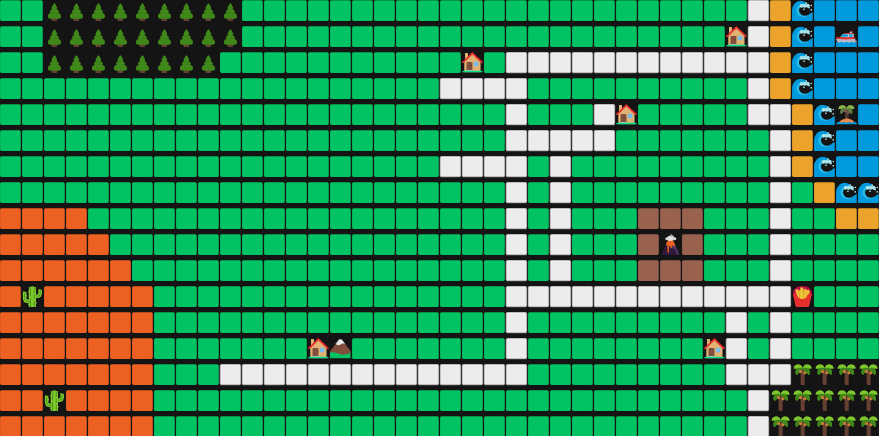
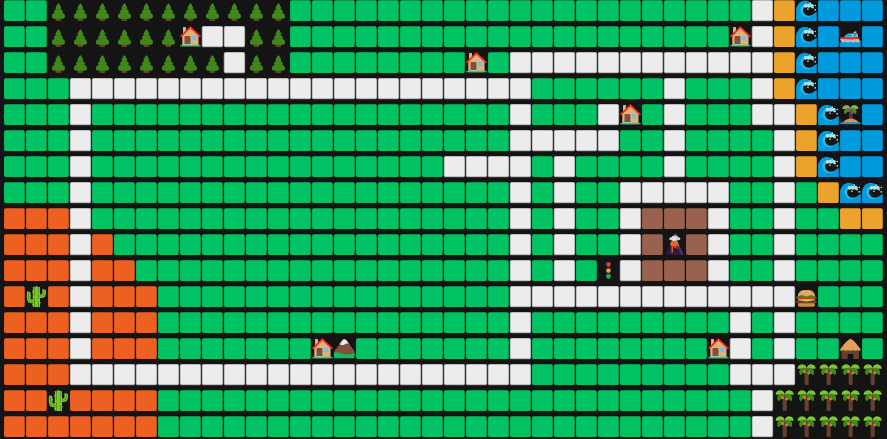
tentando plotar e concertando caminhos

diff --git a/desenhandomapa.py b/desenhandomapa.py
@@ -2,19 +2,19 @@ from heapq import heappop, heappush
 import numpy as np
 mapa = np.array([
     ["🟩","🟩","🌲","🌲","🌲","🌲","🌲","🌲","🌲","🌲","🌲","🌲","🌲","🟩","🟩","🟩","🟩","🟩","🟩","🟩","🟩","🟩","🟩","🟩","🟩","🟩","🟩","🟩","🟩","🟩","🟩","🟩","🟩","🟩","⬜","🟨","🌊","🟦","🟦","🟦"],
-    ["🟩","🟩","🌲","🌲","🌲","🌲","🌲","🌲","C7","⬜","⬜","🌲","🌲","🟩","🟩","🟩","🟩","🟩","🟩","🟩","🟩","🟩","🟩","🟩","🟩","🟩","🟩","🟩","🟩","🟩","🟩","🟩","🟩","C2","⬜","🟨","🌊","🟦","🛥 ","🟦"],
-    ["🟩","🟩","🌲","🌲","🌲","🌲","🌲","🌲","🌲","🌲","⬜","🌲","🌲","🟩","🟩","🟩","🟩","🟩","🟩","🟩","🟩","C1","🟩","⬜","⬜","⬜","⬜","⬜","⬜","⬜","⬜","⬜","⬜","⬜","⬜","🟨","🌊","🟦","🟦","🟦"],
+    ["🟩","🟩","🌲","🌲","🌲","🌲","🌲","🌲","🏠","⬜","⬜","🌲","🌲","🟩","🟩","🟩","🟩","🟩","🟩","🟩","🟩","🟩","🟩","🟩","🟩","🟩","🟩","🟩","🟩","🟩","🟩","🟩","🟩","🏠","⬜","🟨","🌊","🟦","🛥 ","🟦"],
+    ["🟩","🟩","🌲","🌲","🌲","🌲","🌲","🌲","🌲","🌲","⬜","🌲","🌲","🟩","🟩","🟩","🟩","🟩","🟩","🟩","🟩","🏠","🟩","⬜","⬜","⬜","⬜","⬜","⬜","⬜","⬜","⬜","⬜","⬜","⬜","🟨","🌊","🟦","🟦","🟦"],
     ["🟩","🟩","🟩","⬜","⬜","⬜","⬜","⬜","⬜","⬜","⬜","⬜","⬜","⬜","⬜","⬜","⬜","⬜","⬜","⬜","⬜","⬜","⬜","⬜","🟩","🟩","🟩","🟩","🟩","🟩","⬜","🟩","🟩","🟩","⬜","🟨","🌊","🟦","🟦","🟦"],
-    ["🟩","🟩","🟩","⬜","🟩","🟩","🟩","🟩","🟩","🟩","🟩","🟩","🟩","🟩","🟩","🟩","🟩","🟩","🟩","🟩","🟩","🟩","🟩","⬜","🟩","🟩","🟩","⬜","C3","🟩","⬜","🟩","🟩","🟩","⬜","⬜","🟨","🌊","🏝 ","🟦"],
+    ["🟩","🟩","🟩","⬜","🟩","🟩","🟩","🟩","🟩","🟩","🟩","🟩","🟩","🟩","🟩","🟩","🟩","🟩","🟩","🟩","🟩","🟩","🟩","⬜","🟩","🟩","🟩","⬜","🏠","🟩","⬜","🟩","🟩","🟩","⬜","⬜","🟨","🌊","🏝 ","🟦"],
     ["🟩","🟩","🟩","⬜","🟩","🟩","🟩","🟩","🟩","🟩","🟩","🟩","🟩","🟩","🟩","🟩","🟩","🟩","🟩","🟩","🟩","🟩","🟩","⬜","⬜","⬜","⬜","⬜","🟩","🟩","⬜","🟩","🟩","🟩","🟩","⬜","🟨","🌊","🟦","🟦"],
     ["🟩","🟩","🟩","⬜","🟩","🟩","🟩","🟩","🟩","🟩","🟩","🟩","🟩","🟩","🟩","🟩","🟩","🟩","🟩","🟩","⬜","⬜","⬜","⬜","🟩","⬜","🟩","🟩","🟩","🟩","⬜","🟩","🟩","🟩","🟩","⬜","🟨","🌊","🟦","🟦"],
     ["🟩","🟩","🟩","⬜","🟩","🟩","🟩","🟩","🟩","🟩","🟩","🟩","🟩","🟩","🟩","🟩","🟩","🟩","🟩","🟩","🟩","🟩","🟩","⬜","🟩","⬜","🟩","🟩","⬜","⬜","⬜","⬜","⬜","🟩","🟩","⬜","🟩","🟨","🌊","🌊"],
     ["🟧","🟧","🟧","⬜","🟩","🟩","🟩","🟩","🟩","🟩","🟩","🟩","🟩","🟩","🟩","🟩","🟩","🟩","🟩","🟩","🟩","🟩","🟩","⬜","🟩","⬜","🟩","🟩","⬜","🟫","🟫","🟫","⬜","🟩","🟩","⬜","🟩","🟩","🟨","🟨"],
     ["🟧","🟧","🟧","⬜","🟧","🟩","🟩","🟩","🟩","🟩","🟩","🟩","🟩","🟩","🟩","🟩","🟩","🟩","🟩","🟩","🟩","🟩","🟩","⬜","🟩","⬜","🟩","🟩","⬜","🟫","🌋","🟫","⬜","🟩","🟩","⬜","🟩","🟩","🟩","🟩"],
     ["🟧","🟧","🟧","⬜","🟧","🟧","🟩","🟩","🟩","🟩","🟩","🟩","🟩","🟩","🟩","🟩","🟩","🟩","🟩","🟩","🟩","🟩","🟩","⬜","🟩","⬜","🟩","🚦","⬜","🟫","🟫","🟫","⬜","🟩","🟩","⬜","🟩","🟩","🟩","🟩"],
-    ["🟧","🌵","🟧","⬜","🟧","🟧","🟧","🟩","🟩","🟩","🟩","🟩","🟩","🟩","🟩","🟩","🟩","🟩","🟩","🟩","🟩","🟩","🟩","⬜","⬜","⬜","⬜","⬜","⬜","⬜","⬜","⬜","⬜","⬜","⬜","⬜","R1","🟩","🟩","🟩"],
+    ["🟧","🌵","🟧","⬜","🟧","🟧","🟧","🟩","🟩","🟩","🟩","🟩","🟩","🟩","🟩","🟩","🟩","🟩","🟩","🟩","🟩","🟩","🟩","⬜","⬜","⬜","⬜","⬜","⬜","⬜","⬜","⬜","⬜","⬜","⬜","⬜","🍔","🟩","🟩","🟩"],
     ["🟧","🟧","🟧","⬜","🟧","🟧","🟧","🟩","🟩","🟩","🟩","🟩","🟩","🟩","🟩","🟩","🟩","🟩","🟩","🟩","🟩","🟩","🟩","⬜","🟩","🟩","🟩","🟩","🟩","🟩","🟩","🟩","🟩","⬜","🟩","⬜","🟩","🟩","🟩","🟩"],
-    ["🟧","🟧","🟧","⬜","🟧","🟧","🟧","🟩","🟩","🟩","🟩","🟩","🟩","🟩","C5","🏔 ","🟩","🟩","🟩","🟩","🟩","🟩","🟩","⬜","🟩","🟩","🟩","🟩","🟩","🟩","🟩","🟩","C4","⬜","🟩","⬜","🟩","🟩","🛖 ","🟩"],
+    ["🟧","🟧","🟧","⬜","🟧","🟧","🟧","🟩","🟩","🟩","🟩","🟩","🟩","🟩","🏠","🏔 ","🟩","🟩","🟩","🟩","🟩","🟩","🟩","⬜","🟩","🟩","🟩","🟩","🟩","🟩","🟩","🟩","🏠","⬜","🟩","⬜","🟩","🟩","🛖 ","🟩"],
     ["🟧","🟧","🟧","⬜","⬜","⬜","⬜","⬜","⬜","⬜","⬜","⬜","⬜","⬜","⬜","⬜","⬜","⬜","⬜","⬜","⬜","⬜","⬜","⬜","🟩","🟩","🟩","🟩","🟩","🟩","🟩","🟩","🟩","⬜","⬜","⬜","🌴","🌴","🌴","🌴"],
     ["🟧","🟧","🌵","🟧","🟧","🟧","🟧","🟩","🟩","🟩","🟩","🟩","🟩","🟩","🟩","🟩","🟩","🟩","🟩","🟩","🟩","🟩","🟩","🟩","🟩","🟩","🟩","🟩","🟩","🟩","🟩","🟩","🟩","🟩","⬜","🌴","🌴","🌴","🌴","🌴"],
     ["🟧","🟧","🟧","🟧","🟧","🟧","🟧","🟩","🟩","🟩","🟩","🟩","🟩","🟩","🟩","🟩","🟩","🟩","🟩","🟩","🟩","🟩","🟩","🟩","🟩","🟩","🟩","🟩","🟩","🟩","🟩","🟩","🟩","🟩","⬜","🌴","🌴","🌴","🌴","🌴"],

diff --git a/projeto_ia/main.py b/projeto_ia/main.py
@@ -1,6 +1,9 @@
 from mapa import mapa, posicoes
 from busca import busca_a_estrela, busca_gulosa
 from util import imprimir_mapa
+from fuzzy_controlador import plot_membership_functions, plot_surface_3d
+import argparse
+import os
 
 def comparar_buscas(inicio_label='R1', objetivo_label='C2'):
     inicio = posicoes[inicio_label]
@@ -27,6 +30,50 @@ def comparar_buscas(inicio_label='R1', objetivo_label='C2'):
     print("\n")
 
 if __name__ == "__main__":
-    comparar_buscas('R1', 'C7')
+    parser = argparse.ArgumentParser(description="Comparar algoritmos de busca no mapa")
+    parser.add_argument("inicio", nargs='?', default='R1', help="Rótulo de início (ex.: R1)")
+    parser.add_argument("objetivo", nargs='?', default='C2', help="Rótulo de objetivo (ex.: C1..C5)")
+    parser.add_argument("--alg", choices=["astar","astar_fuzzy","gulosa","all"], default="all", help="Algoritmo a executar")
+    parser.add_argument("--plot", action="store_true", help="Gerar gráficos das funções de pertinência e superfície 3D")
+    parser.add_argument("--outdir", default=None, help="Diretório de saída para gráficos (padrão: pasta deste arquivo)")
+    args = parser.parse_args()
+
+    inicio_label = args.inicio
+    objetivo_label = args.objetivo
+
+    inicio = posicoes.get(inicio_label)
+    objetivo = posicoes.get(objetivo_label)
+    if inicio is None or objetivo is None:
+        print(f"Posições inválidas: inicio={inicio_label}, objetivo={objetivo_label}. Disponíveis: {list(posicoes.keys())}")
+    else:
+        if args.alg == "all":
+            comparar_buscas(inicio_label, objetivo_label)
+        else:
+            if args.alg == "astar":
+                print("=== BUSCA A* SEM FUZZY ===")
+                caminho, explorados, g = busca_a_estrela(inicio, objetivo, mapa, usar_fuzzy=False)
+                custo = g.get(objetivo, float('inf'))
+                print(f"Custo total: {custo:.2f}, Nós explorados: {len(explorados)}")
+                imprimir_mapa(caminho, explorados, posicoes)
+            elif args.alg == "astar_fuzzy":
+                print("=== BUSCA A* COM FUZZY ===")
+                caminho, explorados, g = busca_a_estrela(inicio, objetivo, mapa, usar_fuzzy=True)
+                custo = g.get(objetivo, float('inf'))
+                print(f"Custo total: {custo:.2f}, Nós explorados: {len(explorados)}")
+                imprimir_mapa(caminho, explorados, posicoes)
+            elif args.alg == "gulosa":
+                print("=== BUSCA GULOSA ===")
+                caminho, explorados = busca_gulosa(inicio, objetivo, mapa)
+                print(f"Nós explorados: {len(explorados)}")
+                imprimir_mapa(caminho, explorados, posicoes)
+
+    # Plot opcional de gráficos do sistema fuzzy
+    if args.plot:
+        base_outdir = args.outdir or os.path.dirname(__file__)
+        os.makedirs(base_outdir, exist_ok=True)
+        prefix = os.path.join(base_outdir, "fuzzy")
+        plot_membership_functions(prefix)
+        surface_path = os.path.join(base_outdir, "fuzzy_surface.png")
+        plot_surface_3d(surface_path)
 
 

diff --git a/projeto_ia/fuzzy_controlador.py b/projeto_ia/fuzzy_controlador.py
@@ -2,6 +2,8 @@ import numpy as np
 import skfuzzy as fuzz
 from skfuzzy import control as ctrl
 from util import custo_terreno
+import matplotlib.pyplot as plt
+from mpl_toolkits.mplot3d import Axes3D 
 
 dificuldade = ctrl.Antecedent(np.arange(0, 11, 1), 'dificuldade')
 distancia = ctrl.Antecedent(np.arange(0, 101, 1), 'distancia')
@@ -48,3 +50,55 @@ def avaliar_celula_fuzzy(celula, dist_objetivo):
     simulador_fuzzy.input['distancia'] = dist_norm
     simulador_fuzzy.compute()
     return simulador_fuzzy.output['multiplicador_custo'], simulador_fuzzy.output['peso_heuristica']
+
+
+def plot_membership_functions(output_path_prefix="docs/fuzzy"):
+    """Salva os gráficos das funções de pertinência em arquivos PNG."""
+    plt.figure(figsize=(10,6))
+    dificuldade.view()
+    plt.title('MF - dificuldade')
+    plt.savefig(f"{output_path_prefix}_mf_dificuldade.png", bbox_inches='tight')
+    plt.close()
+
+    plt.figure(figsize=(10,6))
+    distancia.view()
+    plt.title('MF - distancia')
+    plt.savefig(f"{output_path_prefix}_mf_distancia.png", bbox_inches='tight')
+    plt.close()
+
+    plt.figure(figsize=(10,6))
+    multiplicador_custo.view()
+    plt.title('MF - multiplicador_custo')
+    plt.savefig(f"{output_path_prefix}_mf_mult.png", bbox_inches='tight')
+    plt.close()
+
+    plt.figure(figsize=(10,6))
+    peso_heuristica.view()
+    plt.title('MF - peso_heuristica')
+    plt.savefig(f"{output_path_prefix}_mf_peso.png", bbox_inches='tight')
+    plt.close()
+
+
+def plot_surface_3d(output_path="docs/fuzzy_surface.png", resolution=41):
+    """Gera superfície 3D da saída multiplicador_custo em função de dificuldade x distancia."""
+    x = np.linspace(dificuldade.universe.min(), dificuldade.universe.max(), resolution)
+    y = np.linspace(distancia.universe.min(), distancia.universe.max(), resolution)
+    X, Y = np.meshgrid(x, y)
+
+    Z = np.zeros_like(X)
+    for i in range(X.shape[0]):
+        for j in range(X.shape[1]):
+            simulador_fuzzy.input['dificuldade'] = X[i, j]
+            simulador_fuzzy.input['distancia'] = Y[i, j]
+            simulador_fuzzy.compute()
+            Z[i, j] = simulador_fuzzy.output['multiplicador_custo']
+
+    fig = plt.figure(figsize=(10,7))
+    ax = fig.add_subplot(111, projection='3d')
+    ax.plot_surface(X, Y, Z, cmap='viridis')
+    ax.set_xlabel('dificuldade')
+    ax.set_ylabel('distancia')
+    ax.set_zlabel('multiplicador_custo')
+    ax.set_title('Superfície Fuzzy')
+    plt.savefig(output_path, bbox_inches='tight')
+    plt.close(fig)

diff --git a/README.md b/README.md
@@ -31,17 +31,26 @@
        <a href="https://github.com/ElprogramadorxX">
          <img src="https://avatars.githubusercontent.com/u/134674876?v=4" style="border-radius: 50%" width="100px;" alt="Joao Dario"/>
          <br />
-         <sub><b>João Dário</b></sub>
+         <sub><b>João Dário 🪰🐞</b></sub>
        </a>
      </td>
     <td align="center">
        <a href="https://github.com/FrrTiago">
          <img src="https://avatars.githubusercontent.com/u/132114628?v=4" style="border-radius: 50%" width="100px;" alt="ferreira"/>
          <br />
-         <sub><b>Tiago Ferreira</b></sub>
+         <sub><b>Tiago Ferreira 💻</b></sub>
        </a>
      </td>
      
 
   </tr>
 </table>
+
+## Metodologia e Métricas
+
+Comparamos A* (admissível, caminho ótimo), A* com controle fuzzy (ajusta custo/heurística) e Busca Gulosa (não ótima). Para cada destino C1..C5 registramos:
+
+- custo total do caminho encontrado
+- nós explorados
+
+As execuções mostram trade-off entre custo e exploração quando a ponderação fuzzy aumenta/diminui o peso heurístico.
